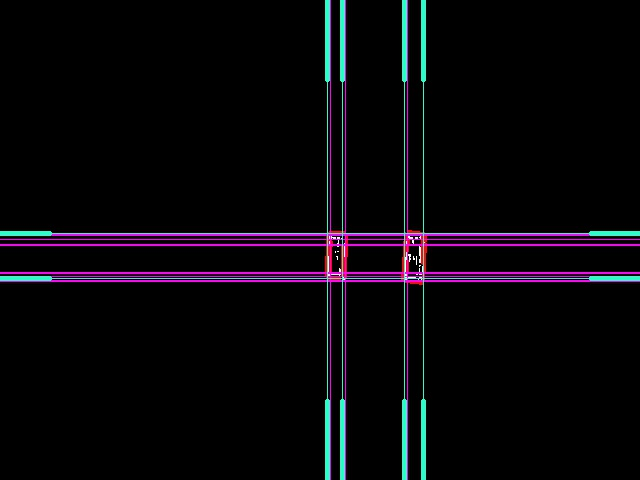
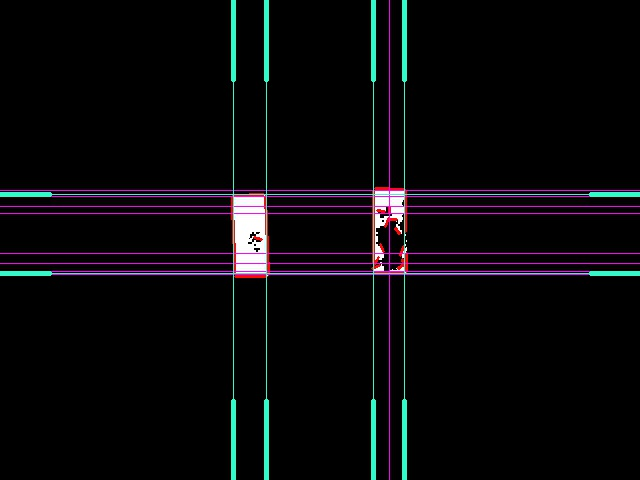
Camera and HSLs semi-optimized.

diff --git a/src/com/thecharge/HelloOCV.java b/src/com/thecharge/HelloOCV.java
@@ -63,24 +63,24 @@ public class HelloOCV {
 	private static double tanHlfAngleH = Math.tan(Math.toRadians(HALF_FIELD_ANGLE_H));
 	private static double tanHlfAngleV = Math.tan(Math.toRadians(HALF_FIELD_ANGLE_V));
 	private static double dist2Target = 0;	// Calculated distance to the target in inches
-	private static final double INITIAL_LO_HUE = 84;	//88;	//40,65,68,32, 73;		//74;
-	private static final double INITIAL_HI_HUE = 96;	//94;	//142,120,117, 103;	//96;	// 93.99317406143345;
-	private static final double INITIAL_LO_SATURATION = 101;	//183;	//156,211, 14;	//40;	//45.86330935251798;
+	private static final double INITIAL_LO_HUE = 83;	//88;	//40,65,68,32, 73;		//74;
+	private static final double INITIAL_HI_HUE = 108;	//94;	//142,120,117, 103;	//96;	// 93.99317406143345;
+	private static final double INITIAL_LO_SATURATION = 112;	//183;	//156,211, 14;	//40;	//45.86330935251798;
 	private static final double INITIAL_HI_SATURATION = 255;	//250;	//255, 255;	//140;	//153;	// 128.80546075085323;
-	private static final double INITIAL_LO_LUMIN = 73;	//26;	//89,99,66, 135;	//80.26079136690647;
-	private static final double INITIAL_HI_LUMIN = 161;	//132;	//133,255,166, 235;	//163.61774744027304;
+	private static final double INITIAL_LO_LUMIN = 71;	//26;	//89,99,66, 135;	//80.26079136690647;
+	private static final double INITIAL_HI_LUMIN = 244;	//132;	//133,255,166, 235;	//163.61774744027304;
 	//LTGym8ft => 81 / 114 / 7 / 140 / 85 / 254
 	//BreakRoom => 71 / 110 / 17 / 253 / 12 / 255
 	//LTGym6f70d.jpg => 83 / 102 / 57 / 255 / 71 / 185
 	//BreakRoom0221 =>  73 / 171 / 3 / 61 / 96 / 181
-	private static final double INITIAL_WC_BRIGHTNESS = 0;	//128;
-	private static final double INITIAL_WC_CONTRAST = 38;	//32;
-	private static final double INITIAL_WC_EXPOSURE = -2;
-	private static final double INITIAL_WC_GAIN = 1;	//0;
-	private static final double INITIAL_WC_SATURATION = 99;	//32;
-	private static final double INITIAL_WC_WHTBALBLU = 6023;	//2800;
-	private static final double INITIAL_WC_WHTBALRED = -1;
-	private static final double INITIAL_WC_HUE = 3.7E7;
+	private static final double INITIAL_WC_BRIGHTNESS = 34;	//48;	//0;	//128;
+	private static final double INITIAL_WC_CONTRAST = 39;	//69;	//38;	//32;
+	private static final double INITIAL_WC_EXPOSURE = -2;	//-2;
+	private static final double INITIAL_WC_GAIN = 0;	//1;	//0;
+	private static final double INITIAL_WC_SATURATION = 39;	//76;	//99;	//32;
+	private static final double INITIAL_WC_WHTBALBLU = 6142;	//3311;	//6023;	//2800;
+	private static final double INITIAL_WC_WHTBALRED = -1;	//-1;
+	private static final double INITIAL_WC_HUE = 4.78E7;	//1.54E7;	//3.7E7;
 	private static boolean lastTestInCalbrPh = false;
 	private static double loHue = 0;	// 81 from optimization;
 	private static double hiHue = 0;	// 93.99317406143345;
